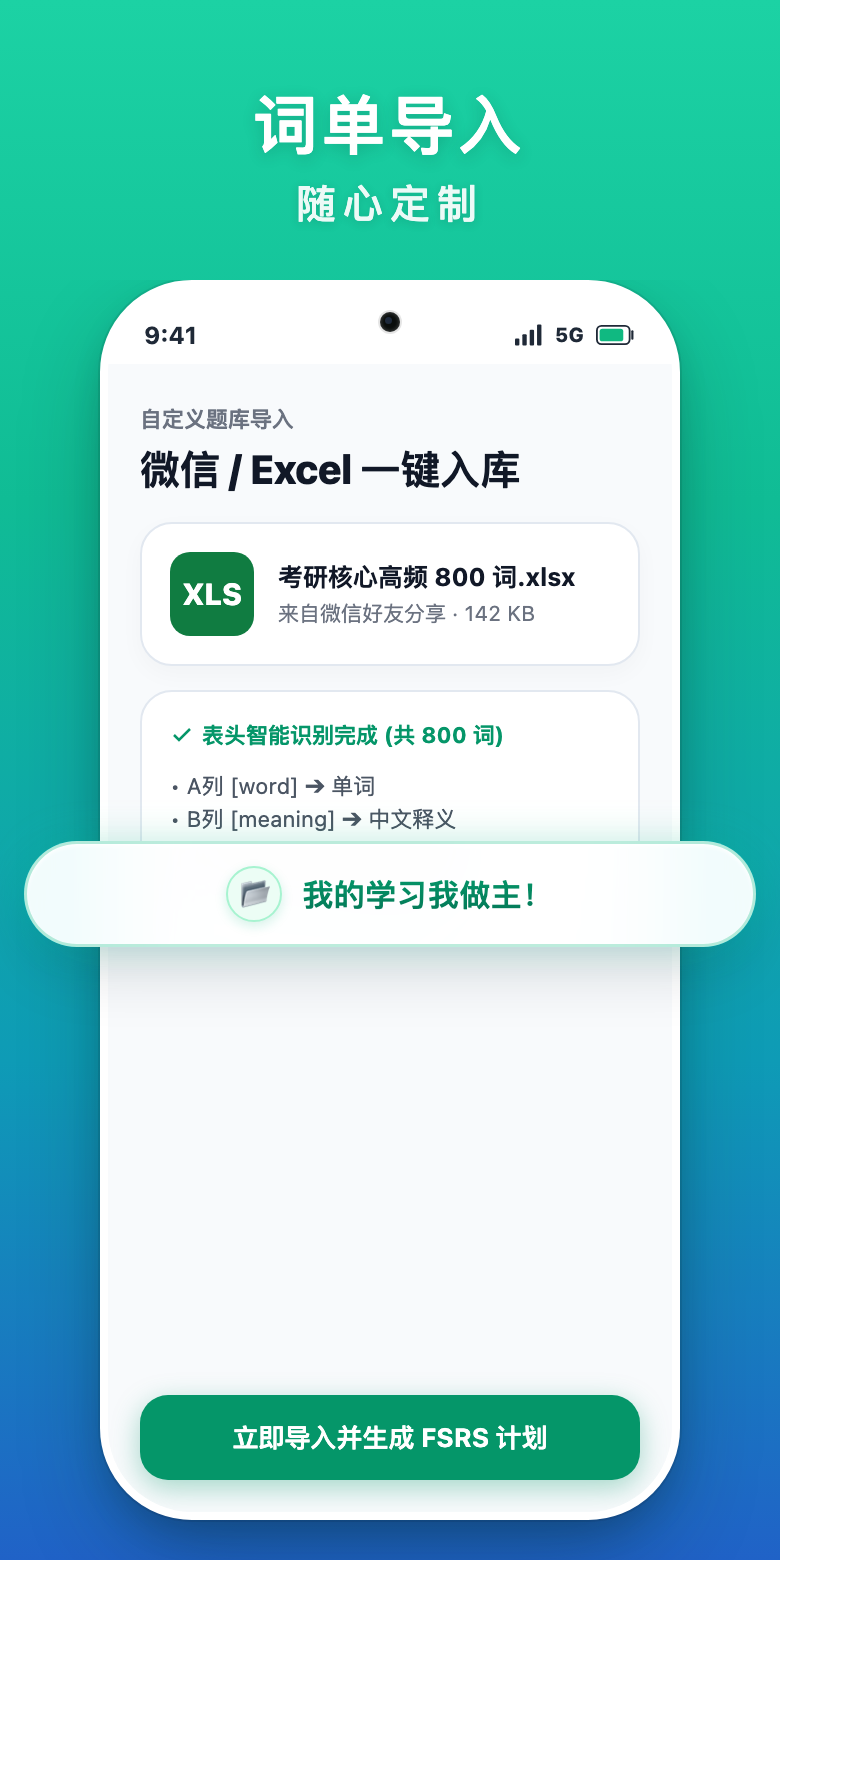
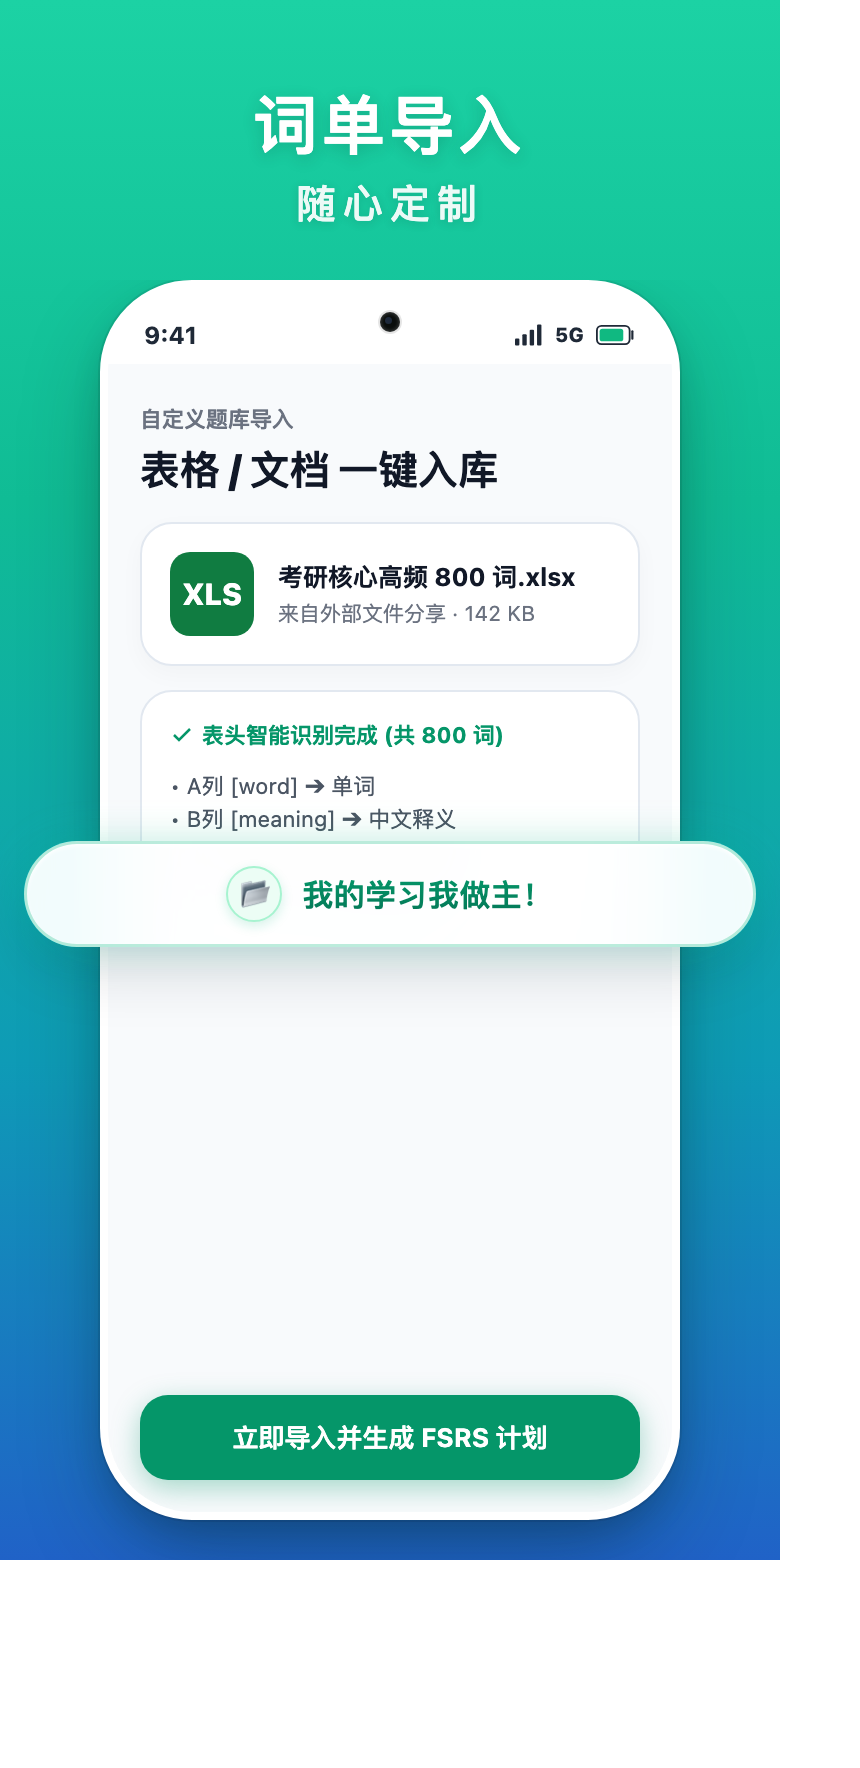
refactor: generalize import feature copy and assets in app store preview

Changed region(s): [[0.1512, 0.2489, 0.6047, 0.28], [0.3628, 0.3422, 0.4837, 0.3733]]

diff --git a/design/ui/app_store_minimal_clean_preview.html b/design/ui/app_store_minimal_clean_preview.html
@@ -1493,15 +1493,15 @@
               <div class="excel-stage">
                 <div>
                   <span style="font-size: 11px; color: #6B7280; font-weight: 600;">自定义题库导入</span>
-                  <div style="font-size: 20px; font-weight: 800; color: #111827; margin-top: 4px;">微信 / Excel 一键入库</div>
+                  <div style="font-size: 20px; font-weight: 800; color: #111827; margin-top: 4px;">表格 / 文档 一键入库</div>
                 </div>
 
-                <!-- 微信文件分享卡 -->
+                <!-- 文件导入卡片 -->
                 <div class="wechat-card">
                   <div class="excel-icon">XLS</div>
                   <div style="flex: 1; overflow: hidden;">
                     <div style="font-size: 12.5px; font-weight: 700; color: #111827; white-space: nowrap; text-overflow: ellipsis; overflow: hidden;">考研核心高频 800 词.xlsx</div>
-                    <div style="font-size: 10.5px; color: #6B7280; margin-top: 2px;">来自微信好友分享 · 142 KB</div>
+                    <div style="font-size: 10.5px; color: #6B7280; margin-top: 2px;">来自外部文件分享 · 142 KB</div>
                   </div>
                 </div>
 
